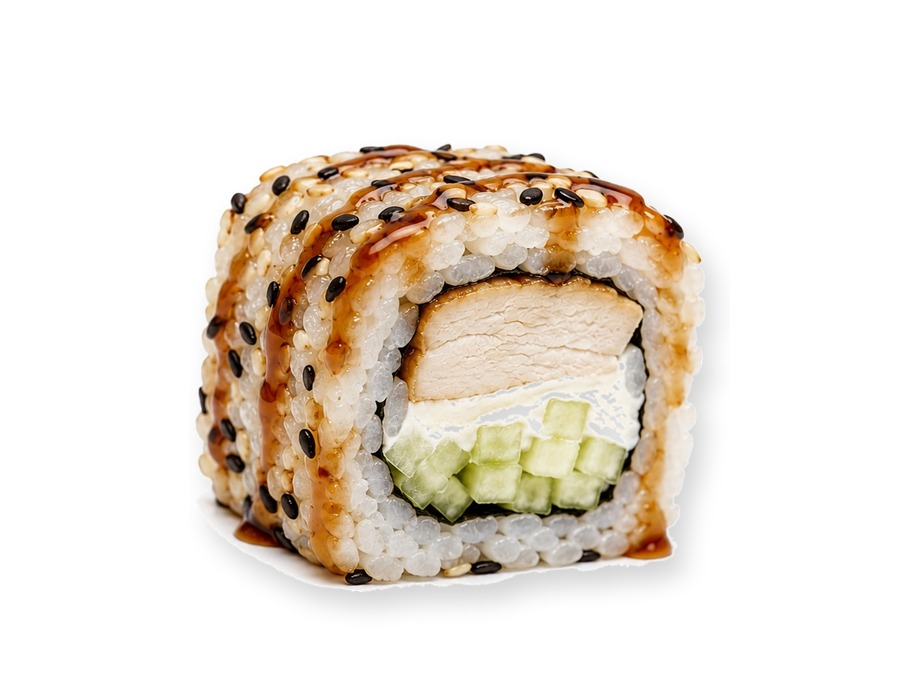
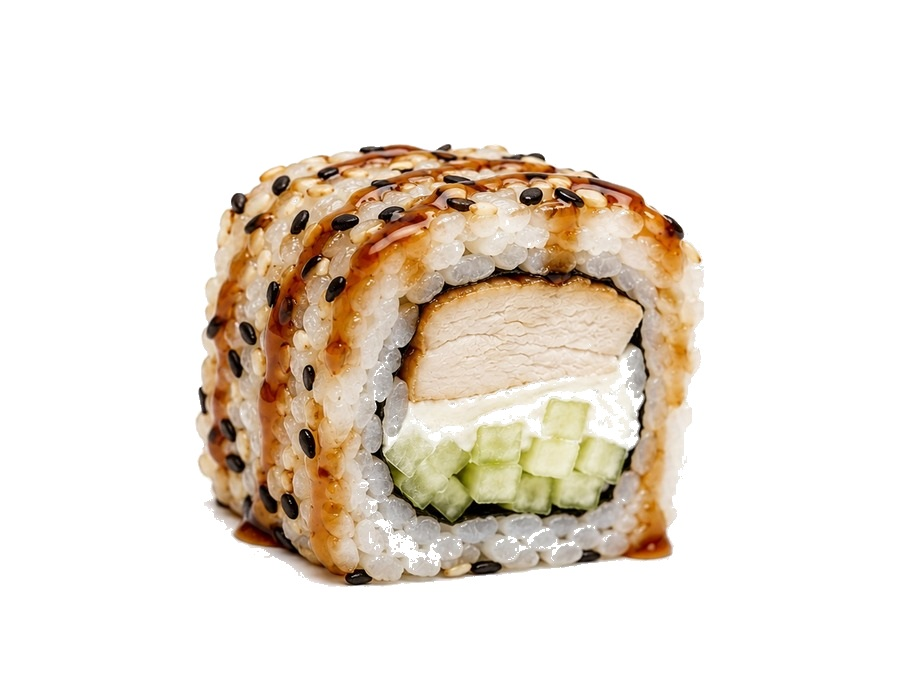
Add files via upload

diff --git a/style.css b/style.css
@@ -1,1 +1,2 @@
-*{box-sizing:border-box}:root{--pink:#ff2f86;--dark:#25131c;--bg:#fff7fb;--muted:#736873}body{margin:0;font-family:-apple-system,BlinkMacSystemFont,"Segoe UI",Arial,sans-serif;background:var(--bg);color:#222;padding-bottom:95px}header{position:sticky;top:0;z-index:9;display:flex;align-items:center;gap:11px;padding:12px;background:linear-gradient(135deg,#fff,#ffe6f0);border-bottom:1px solid #ffd4e6}.logo{width:58px;height:58px;border-radius:50%;object-fit:cover}.brand{flex:1;min-width:0}.brand h1{margin:0;font-size:24px}.brand p{margin:2px 0;font-size:10.5px;color:var(--muted);font-weight:650}.langs{display:flex;background:white;border-radius:99px;padding:3px}.langs button{border:0;background:transparent;padding:7px 9px;border-radius:99px;font-weight:800}.langs .active{background:var(--pink);color:white}main{max-width:900px;margin:auto;padding:13px}.promo{background:linear-gradient(135deg,#25131c,#5b1a38);color:#fff;border-radius:22px;padding:19px;text-align:center;box-shadow:0 12px 30px #5c173822}.promo b{background:var(--pink);padding:6px 10px;border-radius:99px;font-size:11px;letter-spacing:.7px}.promo h2{font-size:25px;margin:12px 0 5px}.promo p{margin:0;opacity:.86}nav{display:flex;gap:8px;overflow:auto;padding:15px 0 9px;position:sticky;top:83px;background:var(--bg);z-index:7}nav::-webkit-scrollbar{display:none}.cat{border:0;background:white;padding:10px 15px;border-radius:99px;white-space:nowrap;font-weight:800;box-shadow:0 5px 15px #0000000d}.cat.active{background:var(--pink);color:white}.grid{display:grid;grid-template-columns:repeat(2,minmax(0,1fr));gap:12px}.card{position:relative;background:white;border-radius:20px;overflow:hidden;box-shadow:0 10px 26px #47112616;display:flex;flex-direction:column}.photo{width:100%;aspect-ratio:1.25/1;object-fit:contain;background:white}.badge{position:absolute;top:9px;left:9px;background:#ff3b30;color:#fff;padding:5px 8px;border-radius:99px;font-size:10px;font-weight:900}.tag{position:absolute;top:9px;right:9px;background:#25131c;color:#fff;padding:5px 8px;border-radius:99px;font-size:9px;font-weight:900}.body{padding:12px;display:flex;flex-direction:column;gap:6px;flex:1}.body h3{margin:0;font-size:15px}.desc{margin:0;color:var(--muted);font-size:11.5px;line-height:1.35}.qtyline{font-size:10.5px;color:#9b6c80;font-weight:800}.bottom{display:flex;align-items:end;justify-content:space-between;margin-top:auto}.old{text-decoration:line-through;color:#aaa;font-size:11px}.new{display:block;color:#e91f74;font-size:18px;font-weight:900}.add{border:0;background:var(--pink);color:white;width:39px;height:39px;border-radius:50%;font-size:24px}.cart{position:fixed;left:12px;right:12px;bottom:12px;max-width:875px;margin:auto;border:0;background:var(--dark);color:#fff;border-radius:18px;padding:16px 18px;display:flex;justify-content:space-between;font-size:16px;z-index:15;box-shadow:0 14px 35px #0005}.modal{position:fixed;inset:0;background:#16091099;z-index:30;padding:15px;overflow:auto}.panel{max-width:620px;margin:auto;background:white;border-radius:23px;padding:17px}.paneltop{display:flex;justify-content:space-between;align-items:center}.paneltop h2{margin:0}.paneltop button{border:0;border-radius:50%;width:38px;height:38px}.cartrow{display:flex;justify-content:space-between;gap:10px;padding:11px 0;border-bottom:1px solid #eee}.controls{display:flex;gap:8px;align-items:center}.controls button{border:0;border-radius:50%;width:29px;height:29px}label{display:block;margin-top:13px;font-weight:750}input,textarea,select{width:100%;margin-top:6px;padding:12px;border:1px solid #ddd;border-radius:13px;font:inherit}textarea{min-height:65px}.sum{display:flex;justify-content:space-between;font-size:20px;margin:17px 0}.send{width:100%;border:0;background:var(--pink);color:white;border-radius:15px;padding:15px;font-size:17px;font-weight:900}.hint{text-align:center;color:var(--muted);font-size:11px}@media(min-width:650px){.grid{grid-template-columns:repeat(3,minmax(0,1fr))}}
+*{box-sizing:border-box}:root{--pink:#ff2f86;--dark:#25131c;--bg:#fff7fb;--muted:#736873}body{margin:0;font-family:-apple-system,BlinkMacSystemFont,"Segoe UI",Arial,sans-serif;background:var(--bg);color:#222;padding-bottom:95px}header{position:sticky;top:0;z-index:9;display:flex;align-items:center;gap:11px;padding:12px;background:linear-gradient(135deg,#fff,#ffe6f0);border-bottom:1px solid #ffd4e6}.logo{width:58px;height:58px;border-radius:50%;object-fit:cover}.brand{flex:1;min-width:0}.brand h1{margin:0;font-size:24px}.brand p{margin:2px 0;font-size:10.5px;color:var(--muted);font-weight:650}.langs{display:flex;background:white;border-radius:99px;padding:3px}.langs button{border:0;background:transparent;padding:7px 9px;border-radius:99px;font-weight:800}.langs .active{background:var(--pink);color:white}main{max-width:900px;margin:auto;padding:13px}.promo{background:linear-gradient(135deg,#25131c,#5b1a38);color:#fff;border-radius:22px;padding:19px;text-align:center;box-shadow:0 12px 30px #5c173822}.promo b{background:var(--pink);padding:6px 10px;border-radius:99px;font-size:11px;letter-spacing:.7px}.promo h2{font-size:25px;margin:12px 0 5px}.promo p{margin:0;opacity:.86}nav{display:flex;gap:8px;overflow:auto;padding:15px 0 9px;position:sticky;top:83px;background:var(--bg);z-index:7}nav::-webkit-scrollbar{display:none}.cat{border:0;background:white;padding:10px 15px;border-radius:99px;white-space:nowrap;font-weight:800;box-shadow:0 5px 15px #0000000d}.cat.active{background:var(--pink);color:white}.grid{display:grid;grid-template-columns:repeat(2,minmax(0,1fr));gap:12px}.card{position:relative;background:white;border-radius:20px;overflow:hidden;box-shadow:0 10px 26px #47112616;display:flex;flex-direction:column}.photo{width:100%;aspect-ratio:1.25/1;object-fit:contain;background:#fff;display:block}.badge{position:absolute;top:9px;left:9px;background:#ff3b30;color:#fff;padding:5px 8px;border-radius:99px;font-size:10px;font-weight:900}.tag{position:absolute;top:9px;right:9px;background:#25131c;color:#fff;padding:5px 8px;border-radius:99px;font-size:9px;font-weight:900}.body{padding:12px;display:flex;flex-direction:column;gap:6px;flex:1}.body h3{margin:0;font-size:15px}.desc{margin:0;color:var(--muted);font-size:11.5px;line-height:1.35}.qtyline{font-size:10.5px;color:#9b6c80;font-weight:800}.bottom{display:flex;align-items:end;justify-content:space-between;margin-top:auto}.old{text-decoration:line-through;color:#aaa;font-size:11px}.new{display:block;color:#e91f74;font-size:18px;font-weight:900}.add{border:0;background:var(--pink);color:white;width:39px;height:39px;border-radius:50%;font-size:24px}.cart{position:fixed;left:12px;right:12px;bottom:12px;max-width:875px;margin:auto;border:0;background:var(--dark);color:#fff;border-radius:18px;padding:16px 18px;display:flex;justify-content:space-between;font-size:16px;z-index:15;box-shadow:0 14px 35px #0005}.modal{position:fixed;inset:0;background:#16091099;z-index:30;padding:15px;overflow:auto}.panel{max-width:620px;margin:auto;background:white;border-radius:23px;padding:17px}.paneltop{display:flex;justify-content:space-between;align-items:center}.paneltop h2{margin:0}.paneltop button{border:0;border-radius:50%;width:38px;height:38px}.cartrow{display:flex;justify-content:space-between;gap:10px;padding:11px 0;border-bottom:1px solid #eee}.controls{display:flex;gap:8px;align-items:center}.controls button{border:0;border-radius:50%;width:29px;height:29px}label{display:block;margin-top:13px;font-weight:750}input,textarea,select{width:100%;margin-top:6px;padding:12px;border:1px solid #ddd;border-radius:13px;font:inherit}textarea{min-height:65px}.sum{display:flex;justify-content:space-between;font-size:20px;margin:17px 0}.send{width:100%;border:0;background:var(--pink);color:white;border-radius:15px;padding:15px;font-size:17px;font-weight:900}.hint{text-align:center;color:var(--muted);font-size:11px}@media(min-width:650px){.grid{grid-template-columns:repeat(3,minmax(0,1fr))}}
+.card,.photo{background:#fff!important}.photo{box-shadow:none!important;filter:none!important}
